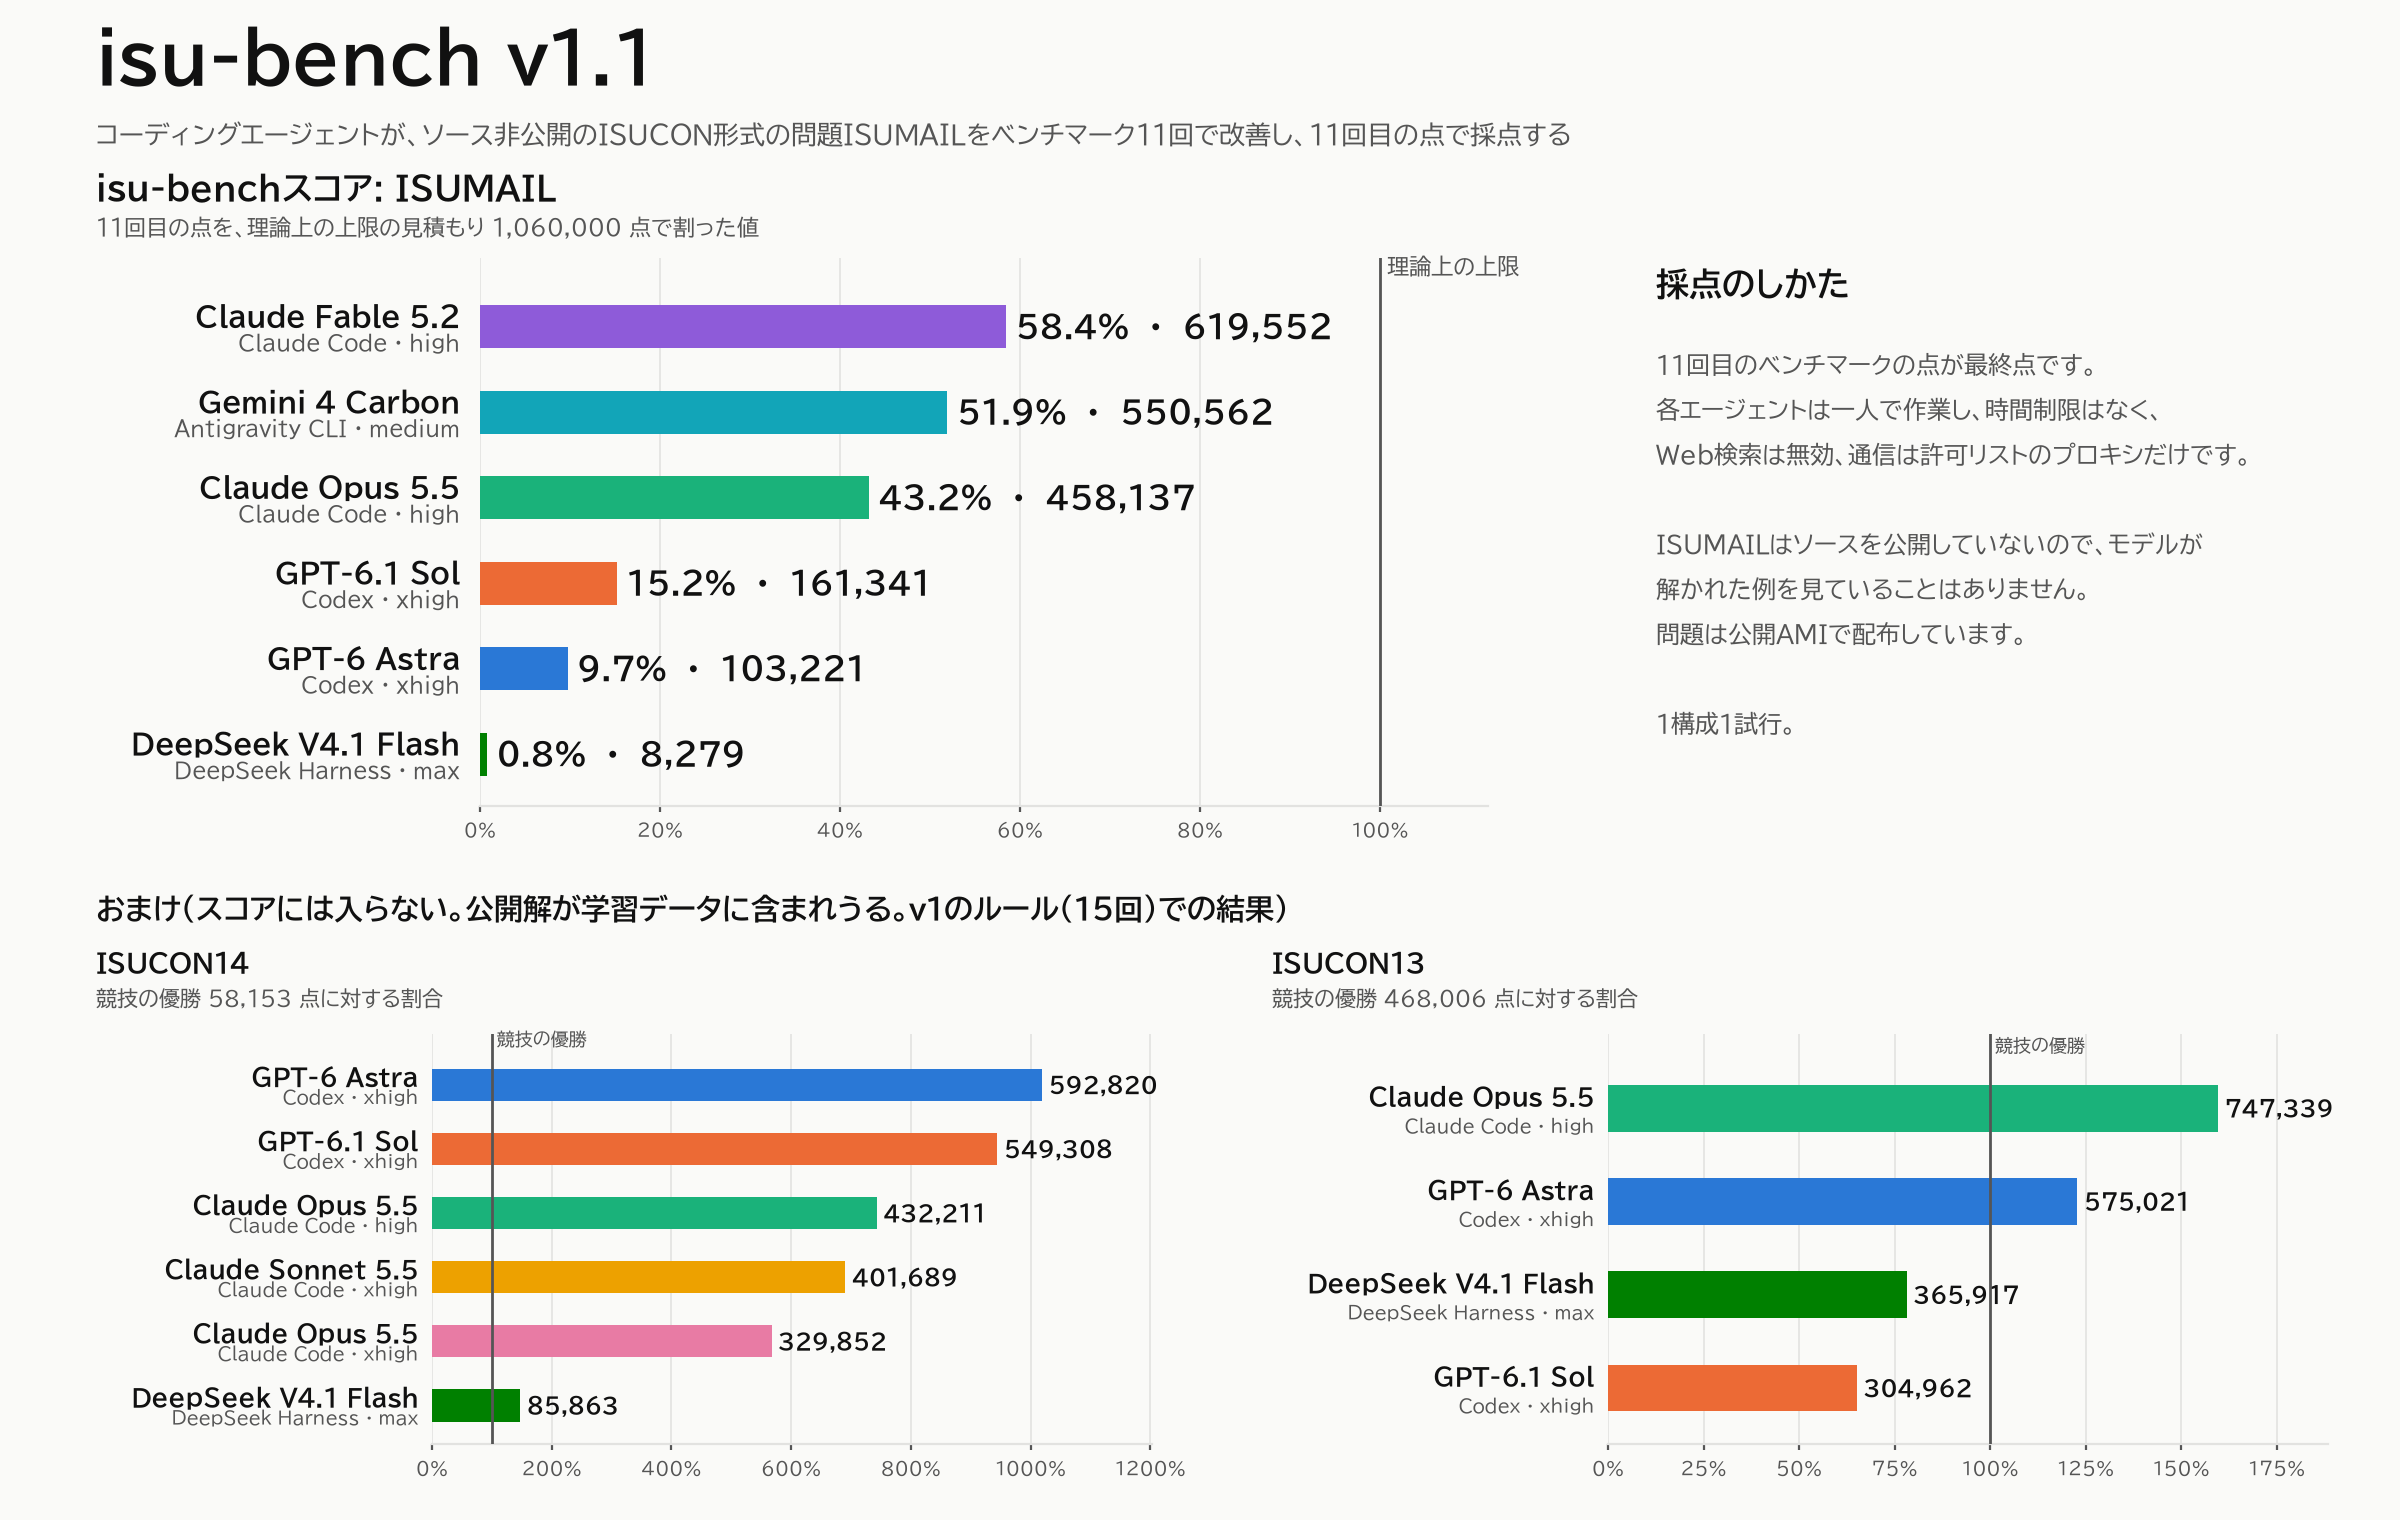
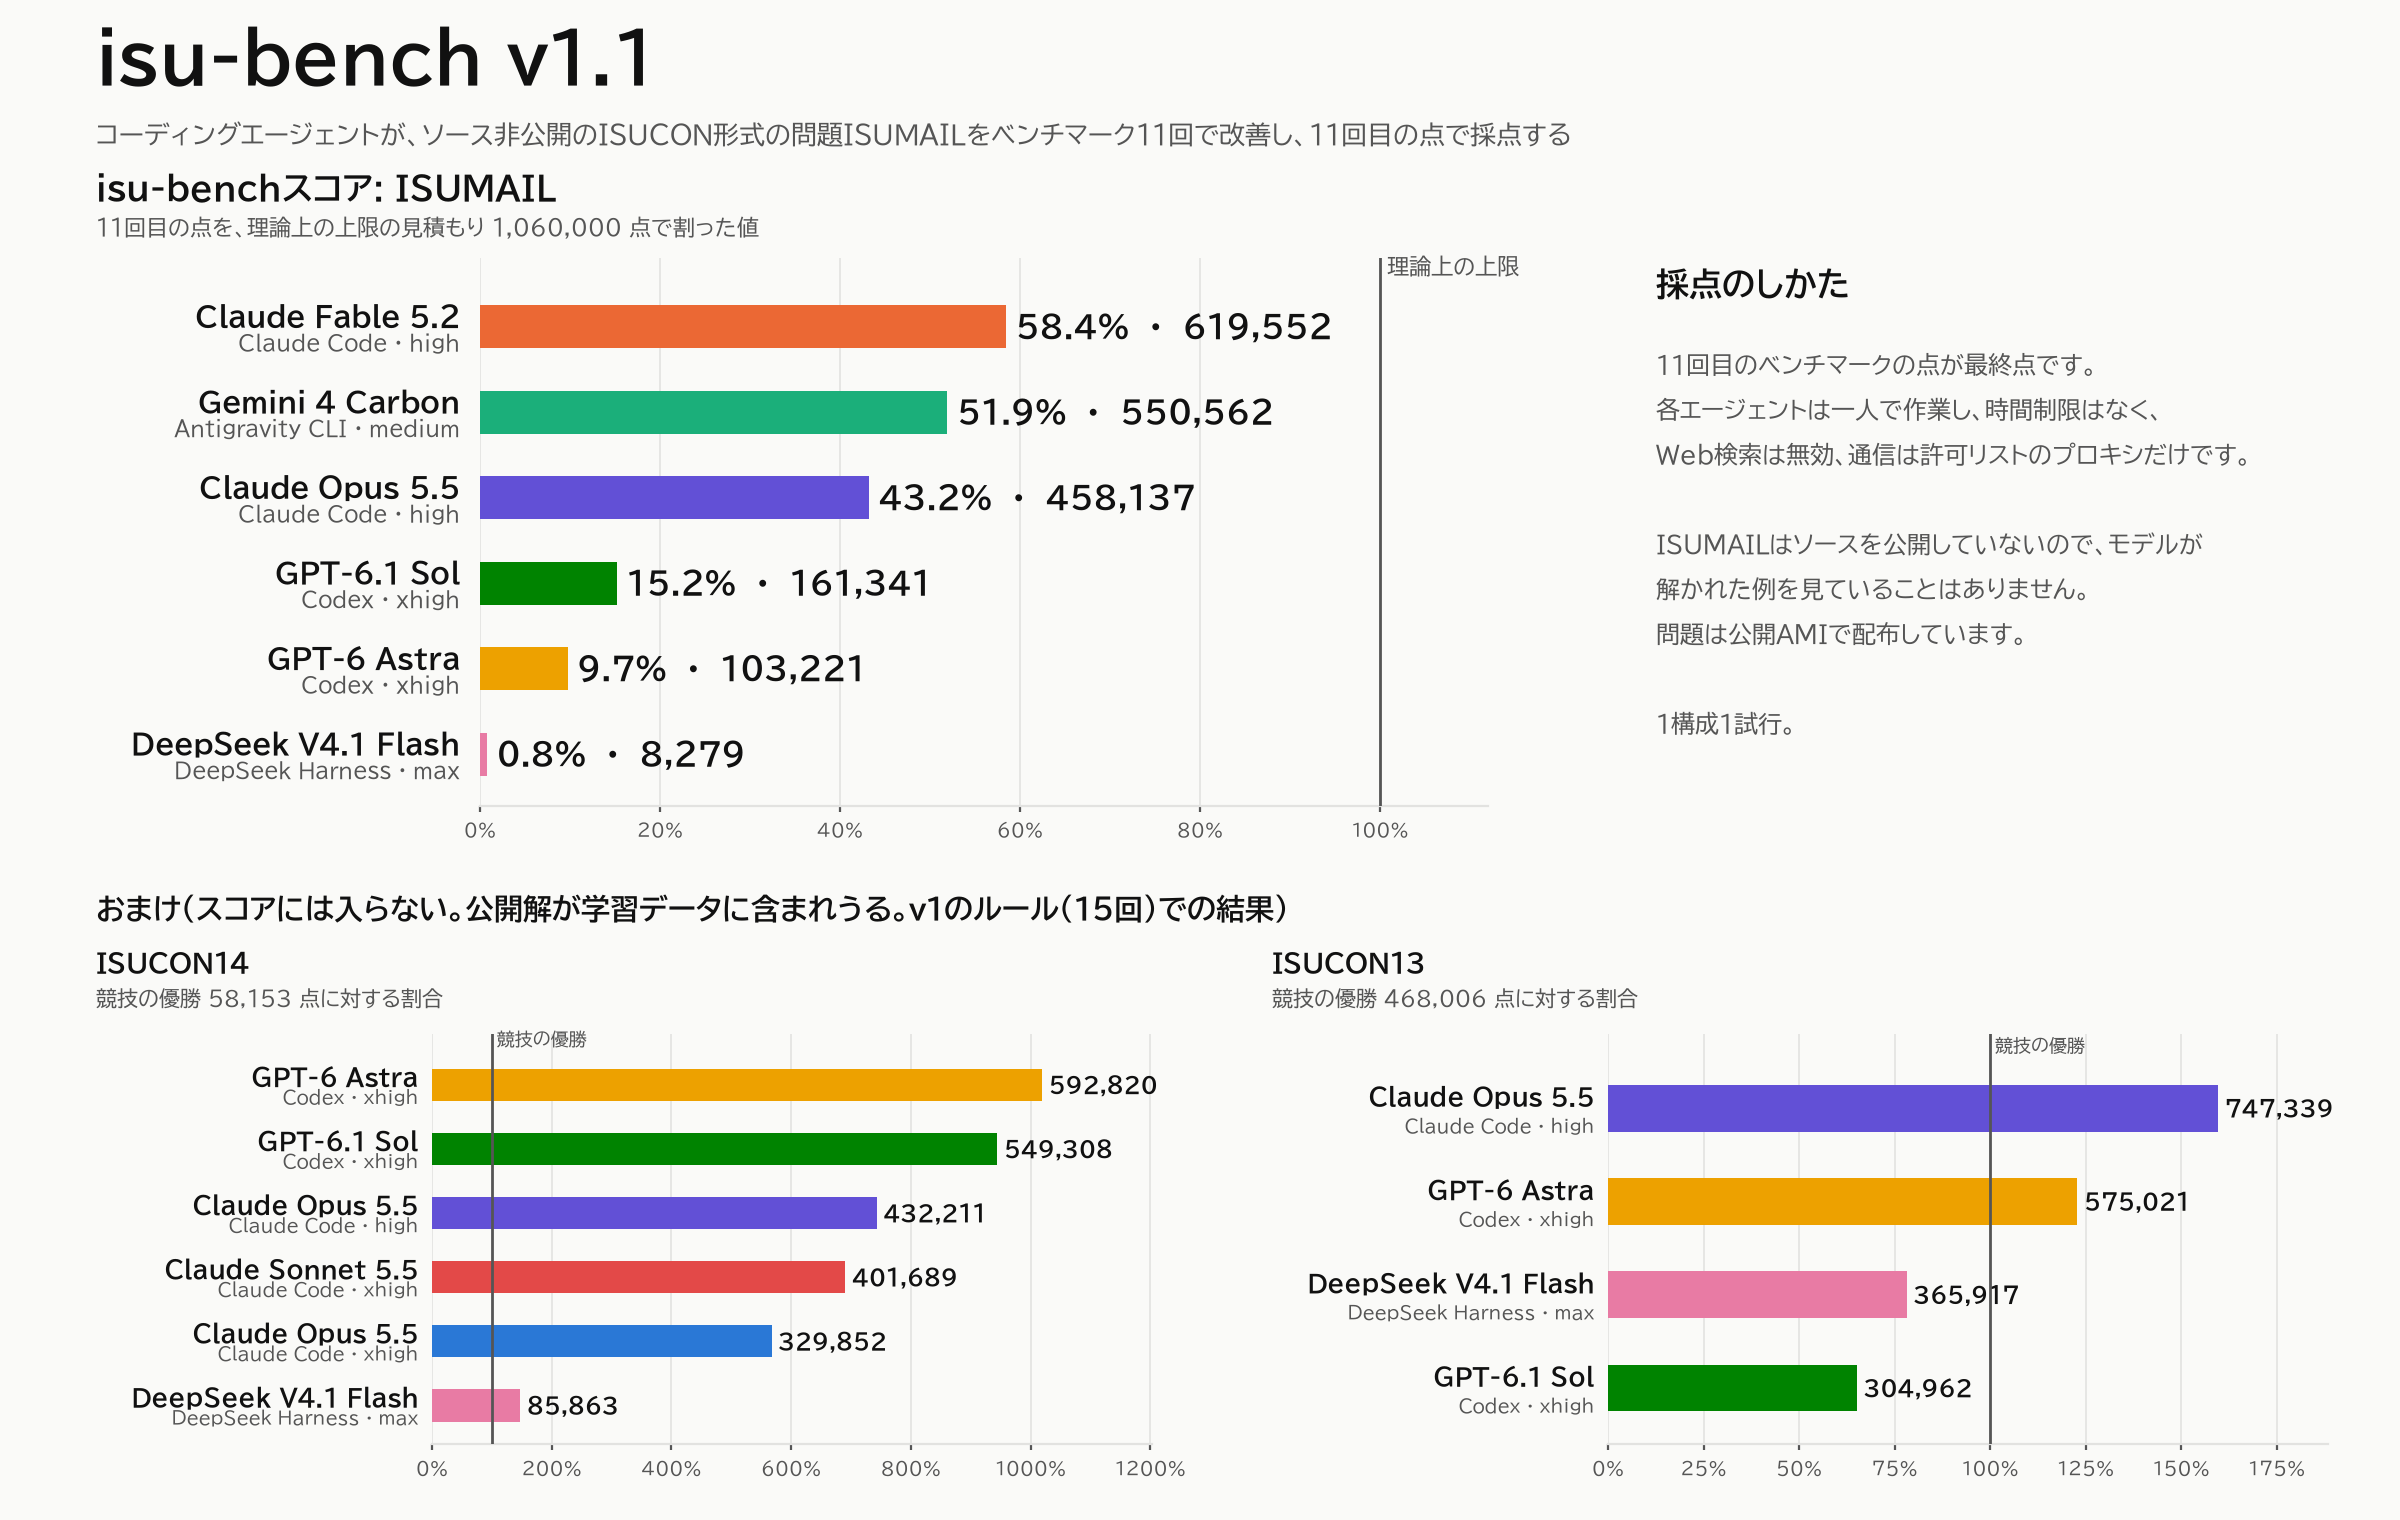
💄 style: give each configuration a fixed color, apart from the ones it runs near
The colors were handed out by how many problems a configuration ran on, which
put Claude Fable 5.2 (magenta) next to Gemini 4 Carbon (red) at the top of the
ISUMAIL charts. The order is now fixed per configuration, and the figures of
the README use the same colors.

diff --git a/isubench/site.py b/isubench/site.py
@@ -10,14 +10,15 @@ ROOT = Path(__file__).resolve().parent.parent
 AGENT_NAMES = {'claude-code': 'Claude Code', 'codex': 'Codex', 'dsh': 'DeepSeek Harness', 'agy': 'Antigravity CLI'}
 # ISUMAIL leads: it is the problem no model can have seen solved.
 ORDER = ['isumail', 'isucon14', 'isucon13', 'isumail-v1']
+# Palette slots of site.html in this order, so that the close colors go to lines that never run near each other.
+COLORS = ['claude-opus-5-5 xhigh', 'claude-fable-5-2 high', 'gemini-4-carbon medium', 'gpt-6-astra xhigh',
+          'deepseek-v4.1-flash:1017 max', 'gpt-6.1-sol xhigh', 'claude-opus-5-5 high', 'claude-sonnet-5-5 xhigh']
 
 
 def build(out):
     results = [r for r in (json.loads(f.read_text()) for f in sorted((ROOT / 'results').glob('*/result.json')))
                if r.get('status') == 'completed' and PROBLEMS[r['problem']].winner]
-    # Colors follow this order, so the configurations run on every problem take the first, most distinct ones.
-    seen = [f"{r['model']} {r['effort']}" for r in results]
-    configs = sorted(set(seen), key=lambda c: (-seen.count(c), c))
+    configs = COLORS + sorted({f"{r['model']} {r['effort']}" for r in results} - set(COLORS))
     problems = []
     for name in sorted({r['problem'] for r in results}, key=lambda p: ORDER.index(p) if p in ORDER else len(ORDER)):
         problem = PROBLEMS[name]
